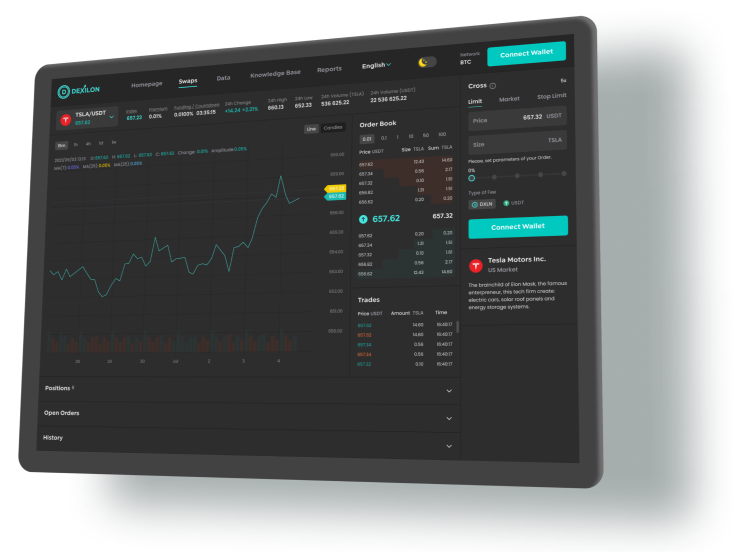
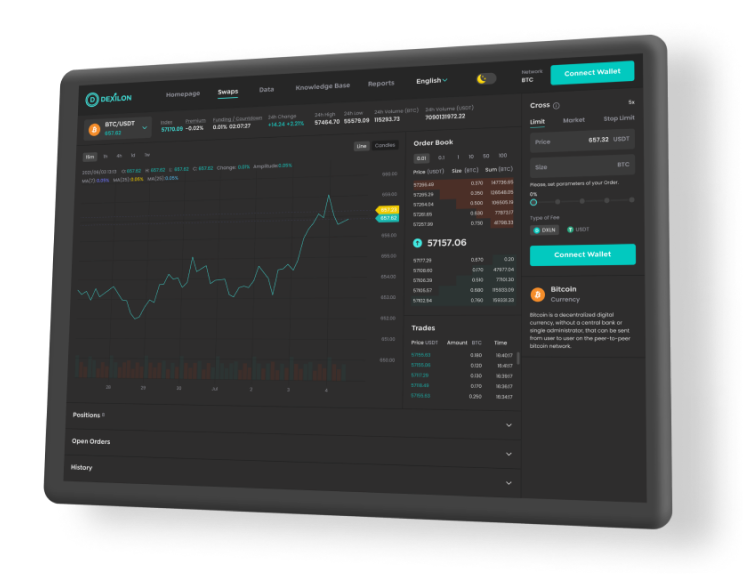
replaced hero sections pictures. desktop and mobile

diff --git a/src/index.html b/src/index.html
@@ -99,20 +99,6 @@
             <div class="hero-img-promo">
               <img src="./assets/img/mobile-hero-img.png" alt="mobile-image" class="img-mobile">
               <img src="./assets/img/main_image.png" class="img-desktop" alt="promo-image">
-              <div class="img-item one"></div>
-              <div class="img-item two"></div>
-              <div class="img-item three"></div>
-              <div class="img-item four"></div>
-              <div class="img-item five"></div>
-              <div class="img-item six"></div>
-              <div class="img-item seven"></div>
-              <div class="img-item eight"></div>
-              <div class="img-item nine"></div>
-              <div class="img-item ten"></div>
-              <div class="img-item eleven"></div>
-              <div class="img-item twelve"></div>
-              <div class="img-item thirteen"></div>
-              <div class="img-item fourteen"></div>
             </div>
           </div>
         </div>

diff --git a/src/assets/css/style.css b/src/assets/css/style.css
@@ -3,7 +3,6 @@
 @import './blocks/titles/titles.css';
 @import './blocks/header/header.css';
 @import './blocks/hero/hero.css';
-@import './blocks/hero/hero-rounds.css';
 @import './blocks/about-dexilion/about-dexilion.css';
 @import './blocks/dexilion-features/dexilion-features.css';
 @import './blocks/dexilion-how/dexilion-how.css';

diff --git a/src/assets/css/blocks/hero/hero-media.css b/src/assets/css/blocks/hero/hero-media.css
@@ -46,10 +46,6 @@
     padding: 0;
   }
 
-  .img-item {
-    display: none;
-  }
-
   .hero-img {
     padding: 0;
   }
@@ -66,6 +62,7 @@
     width: 100%;
     height: unset;
     transform: none;
+    overflow: hidden;
   }
 
   .hero-title {

diff --git a/src/assets/css/blocks/hero/hero.css b/src/assets/css/blocks/hero/hero.css
@@ -78,7 +78,6 @@
   transform: translateX(40px);
   width: 742px;
   height: 552px;
-  position: relative;
 }
 
 .img-mobile {
